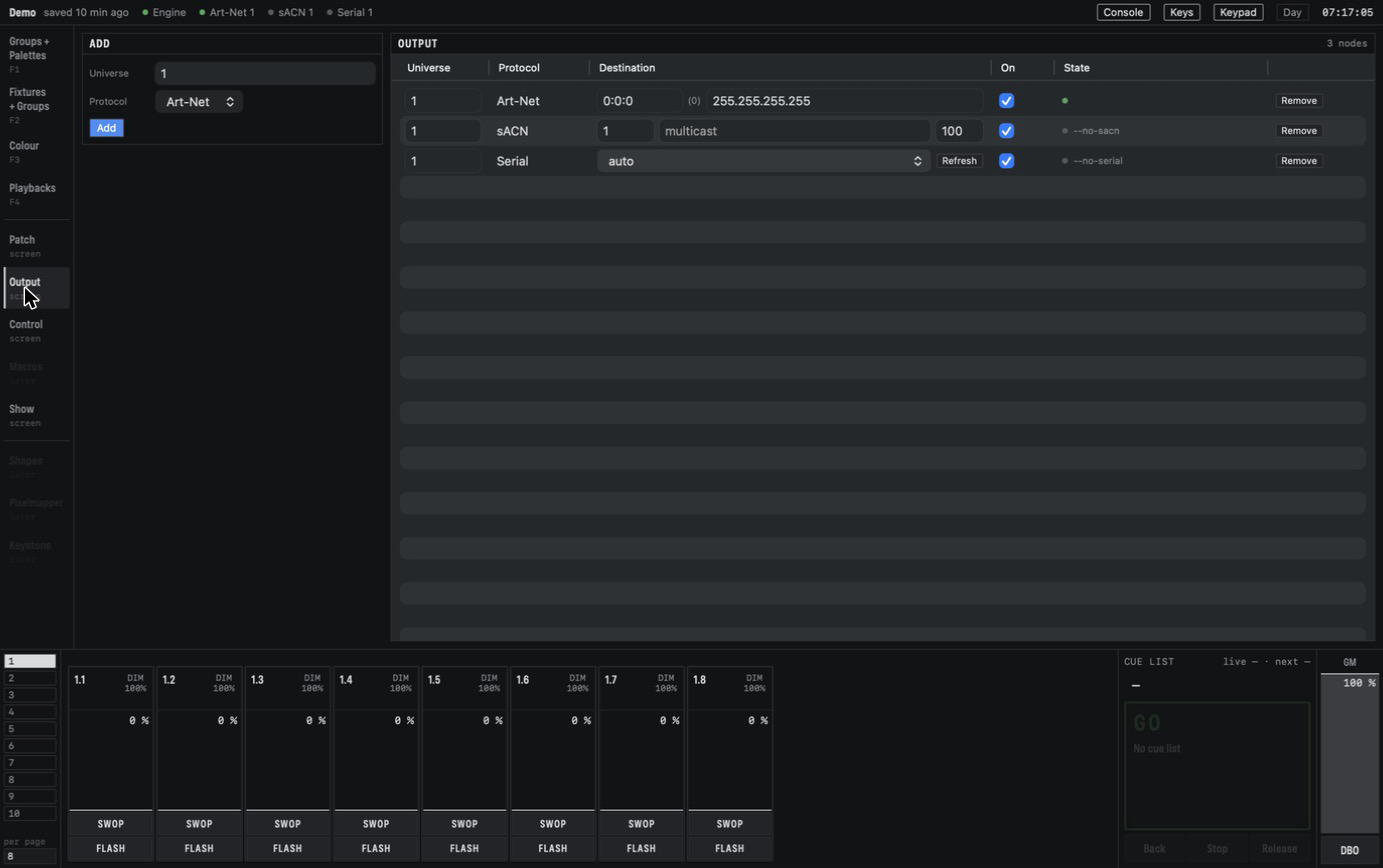
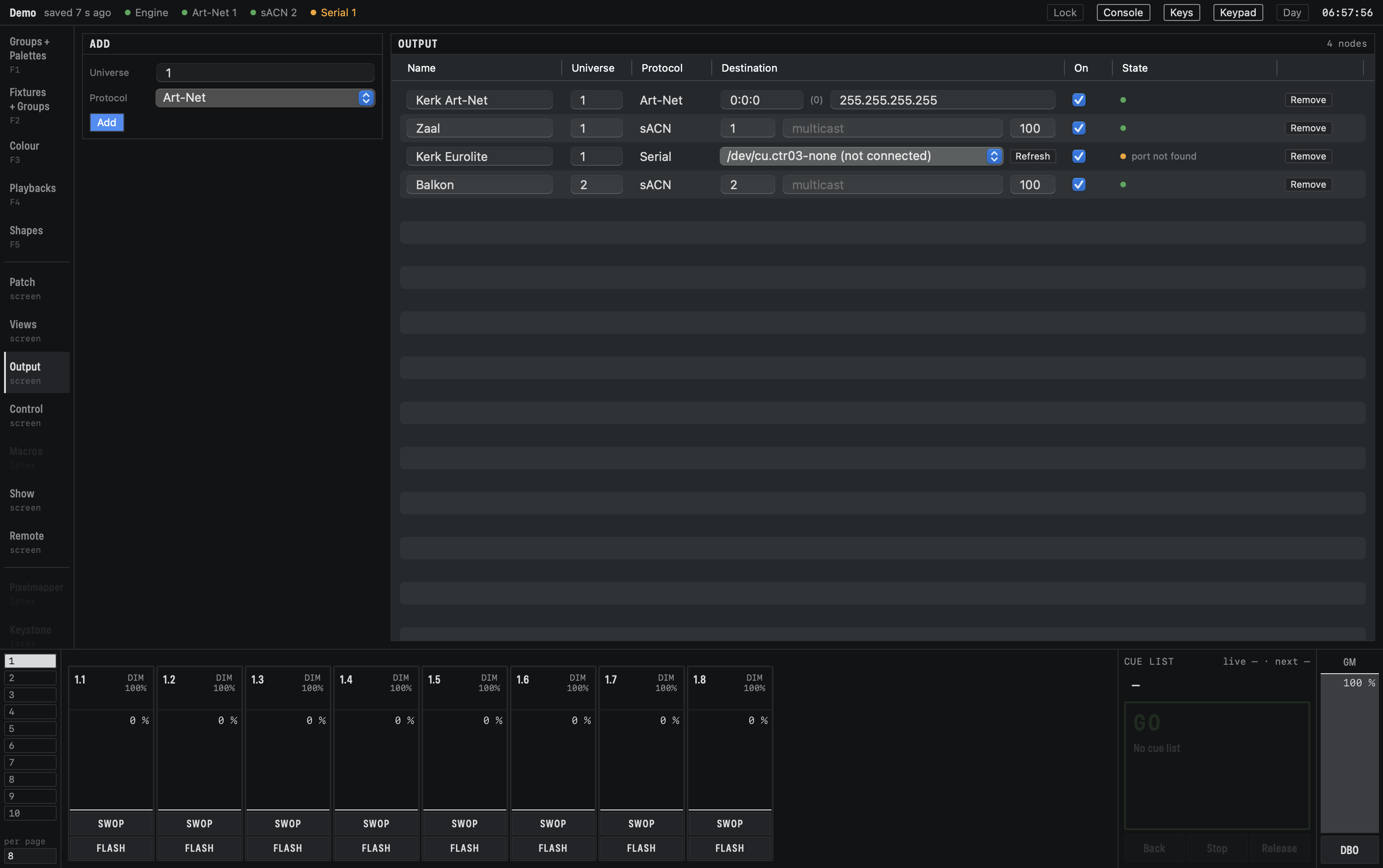
backlog: CTR-03 run and tracking
Run on Art-Net with a release daemon on a temp show folder; manual,
backlog, state files and README status.

diff --git a/tests/manual/runs/2026-11-10-CTR-03.md b/tests/manual/runs/2026-11-10-CTR-03.md
@@ -1,0 +1,46 @@
+# Names for output nodes — CTR-03 (2026-11-10)
+
+OUT-42. Run by Claude with a release daemon on `--show-dir /tmp/cmdmx-ctr03/Shows` and `--ipc-port 7339` (the Demo show,
+Art-Net and sACN on, serial on a port that does not exist), and a release app bundle started with `--ipc-port 7339`.
+State over IPC, Art-Net read with a listener on UDP 6454 (frames per second and ArtDmx sequence gaps per port-address).
+
+## Over IPC and on Art-Net
+- [x] `output.add` sACN on universe 2 with `name` *Balkon*: the outputs list carries `"name": "Balkon"`; the nodes
+  without a name carry no `name` key. Log: `Balkon (sacn #4): universe 2 → sACN 2 multicast, priority 100`.
+- [x] `output.edit` of node 1 to *Kerk Art-Net* while Art-Net runs: the log prints
+  `Kerk Art-Net (art-net #1): universe 1 → 0:0:0 at 255.255.255.255`; port-address 0 kept 40–41 frames a second
+  with no sequence gap over the 8 s around the rename (no new thread).
+- [x] A name of 33 characters: the warning "a node name is at most 32 characters (this one has 33)", node 1 unchanged.
+  32 accented letters (64 bytes) are taken.
+- [x] Node 3 named *Kerk Eurolite* on `/dev/cu.ctr03-none`: the log has `Kerk Eurolite (serial #3): /dev/cu.ctr03-none
+  not found` and the warning `Kerk Eurolite (serial #3) universe 1: Degraded: port not found`.
+- [x] The autosaved `Demo.cmdmx.json` has `schema_version` 14, `name` on the three named nodes and none on node 2.
+- [x] After a daemon restart the start lines name the nodes: `Kerk Art-Net (art-net #1)`, `sacn #2`,
+  `Kerk Eurolite (serial #3)`, `Balkon (sacn #4)`.
+- [x] `show.open` of *Oud*, the same show at schema 13 without names: "migrated 13 -> 14: output nodes may carry a
+  name, nothing else changes", the original kept as `Oud.cmdmx.json.bak`, every node without a name and logged as
+  `art-net #1`, `serial #3`, `sacn #4`.
+
+## The Output screen and the status bar (OUT-37, OUT-36)
+- [x] The Name column is first; *Kerk Art-Net*, *Kerk Eurolite* and *Balkon* show, node 2's field is empty with the
+  placeholder *name*.
+- [x] Typing *Zaal* in node 2's field and Return: the engine lists it (`Zaal (sacn #2)` in the log), the field keeps it.
+- [x] Characters added to *Zaal* up to 37 and Return: "a node name is at most 32 characters (this one has 37)" in the
+  message zone, and the field goes back to *Zaal*.
+- [x] Emptying the field and Return drops the name: the engine lists node 2 without `name`, the log says `sacn #2`.
+- [x] Hovering the Serial dot in the status bar (full-screen control, for a real mouse) shows
+  `Kerk Eurolite (serial #3) universe 1: port not found`.
+- [x] No error in the daemon log (only the known warning about the missing QLC+ folder of a daemon outside the bundle).
+- [x] The manual's `output-screen.png` was taken again with the Name column.
+
+## CPU (UI-70)
+`scripts/app-cpu.sh` on the final build: idle 1.6 % (budget 5 %), `--demo` 2.4 % (budget 15 %).
+
+## Found in the run
+- The first app start ran the daemon that I had copied into the test bundle (REL-10 starts a bundled daemon), on the
+  owner's default folders and port 7319. It was stopped within seconds, and the app with it; the owner's shows were
+  not written (Kerk still dated 2026-10-24) and `state.json` holds the same keys. The daemon is no longer copied into
+  a run's bundle.
+
+## Open points
+- none

diff --git a/subprojects/engine/STATE.md b/subprojects/engine/STATE.md
@@ -1,8 +1,9 @@
 # engine — State
 
-_Last updated: 2026-11-10 (CTR-01, CTR-02)_
+_Last updated: 2026-11-10 (CTR-03)_
 
 ## Current step
+CTR-03 (2026-11-10, OUT-42): `Node.name` (left out of the file and the snapshot when empty), checked in `output::check` (at most 32 `chars()`), so add, edit and load refuse a longer one; `Node::label()` is `serial #3` or `Kerk Eurolite (serial #3)` and is the prefix of every log line and node message. Schema 14, step "13 -> 14". `Engine::output_add_named`; `output_add` passes an empty name. `output.edit` needed no code (JSON merge over the stored node). A rename is not a destination, so the thread stays: `Live.name` (`SharedName`, an `Arc<Mutex<String>>`) is updated by `reconcile` and read by `ArtNetNode`/`SacnNode`/`SerialNode` only when they format a log line. Run: `tests/manual/runs/2026-11-10-CTR-03.md`.
 CTR-01, CTR-02 (2026-11-10, CTL-70, CTL-71): `ControlRequest::MappingDuplicate` clones the `Mapping` (bindings, device, `extra`) under the new name and saves it as a user mapping, a profile too; `MappingDevice` refuses a name in `profiles` and a pattern with a blank `|` alternative. `DeckClear` drops the `Input::Deck` bindings of one `deck_page` with one `save`; MIDI and OSC bindings stay whatever their page, and nothing removed is a refusal. CTL-24's `first_mapping` is unchanged: the shipped Mackie profile still wins for `*BCF2000*` (sorted first). Tests `ctl_70_*` (control/tests.rs), `ctl_71_*` (control/deck_tests.rs). Run: `tests/manual/runs/2026-11-10-CTR-01-02.md`.
 PTC-07 (2026-11-10, PAT-44..47, IPC-62): `Fixture.behaviour` (attribute → `Behaviour`, an entry only when not default) and `Fixture.swap_pan_tilt`, both left out of the file and the snapshot at their defaults; schema 13, step "12 -> 13". `tick` shapes each level with `shaped` right after the merge, for the fixture and cell loops; `held` and Take Over pickups stay unshaped. `Mix` records unshaped levels and `write_mixed` shapes the emitter's total, so a limit holds on auto level plus own value. `outlet` picks the channels for the swap. `Behaviour::apply` uses `max`/`min` because `f32::clamp` panics on a hand-edited `low > high`. `apply_mode` keeps the level attributes the new mode has and clears the swap when Pan or Tilt is gone. `explain` still shows the value before behaviour. Tests: `cmdmx-core/tests/behaviour.rs`, `tests/scenarios/PAT-45-behaviour-on-the-frame.json`.
 PTC-06 (2026-11-09, PAT-43, IPC-62): `Engine::auto_group` runs after a `patch.add` with `auto_groups`, and cannot fail, so an accepted Add stays one undo step; legends are cut to `MAX_LEGEND`. Tests: `cmdmx-core/tests/auto_groups.rs`.

diff --git a/subprojects/app/STATE.md b/subprojects/app/STATE.md
@@ -1,8 +1,9 @@
 # app — State
 
-_Last updated: 2026-11-10 (CTR-01, CTR-02)_
+_Last updated: 2026-11-10 (CTR-03)_
 
 ## Current step
+CTR-03 (2026-11-10, OUT-42): `OutputNode.name` (absent decodes as empty) and `label`, the engine's rule; `OutputView` has a Name column first (`NameCell` on `NodeField`), the status-bar dot's hover lines use `label`. No length check in Swift: the engine refuses and the field snaps back. Run: `tests/manual/runs/2026-11-10-CTR-03.md`.
 CTR-01, CTR-02 (2026-11-10, CTL-69..71): `BindingsPanel.header` has the Device field (`raw["device"]`, Return sends `controlMappingDevice` and shows the stored pattern again until the new one comes back), **Duplicate…** and **Rename…** (`promptName`; `pendingName` selects the new name once the engine lists it, so a refusal keeps the shown one). The control delta asks `control.mapping` again only while the engine lists the shown name (a rename or delete warned "unknown mapping"). `ControlView` holds `armed: DeckArm?` (key, page, copy) for `DeckPanel`; Esc disarms first. While armed a key tap `place`s: copy refuses a bound target, move uses `move(_:to:fromPage:toPage:)` (the drag passes the same page twice). Page buttons have **Clear page…** (`controlDeckClear`), and Remove asks with an NSAlert (a state flip does not survive a context menu).
 PTC-08 (2026-11-10, UI-76): `FixtureInfo.behaviour` and `swapPanTilt`, `FixtureBehaviour`; `EngineClient.patchBehaviour`, `patchBehaviourReset`, `patchSwapPanTilt`. `SelectedPanel` has **Behaviour…**, a `BehaviourSheet` over the attributes every selected row has, with a `PercentField` that commits on Return and on leaving the field; Done is no default button, so Return only commits. The Mode column shows `INV` and `LIM`. Run: `tests/manual/runs/2026-11-10-PTC-07-08.md`.
 PTC-05, PTC-06 (2026-11-09, UI-75 profile part, UI-74 toggle): `SelectedPanel` has **Update from library** on its own row, off unless `sharedProfile`. `AddPanel` has **Duplicate…** (an alert; `duplicateAs` waits for `library.saved` and picks the copy), **Delete profile** (two-step, user rows only; `EngineClient.profileDeleted` refreshes the lists) and the **Auto groups** toggle (`@AppStorage("patchAutoGroups")`). Run: `tests/manual/runs/2026-11-09-PTC-05-06.md`.

diff --git a/README.md b/README.md
@@ -42,7 +42,7 @@ driven the real church rig through the Eurolite interface: fades comparable with
 restart, and killing the app with `kill -9` mid-show dropped no DMX frame.
 
 Patch and profiles are complete: exchange, copy, update from the library, and behaviour per fixture at the output.
-Next: batch F's builds (CTR-03, CTR-04), the church Mac (VS4-07), then a first service on CMDMX (VS4-03).
+Next: batch F's builds (CTR-04, CTR-06), the church Mac (VS4-07), then a first service on CMDMX (VS4-03).
 Phase 2 features already work; the open-hardware desk ([`hardware.md`](specs/modules/hardware.md)) runs beside it.
 Progress is in [`STATE.md`](STATE.md), the plan in [`BACKLOG.md`](BACKLOG.md);
 site and manual are at [aottens.github.io/CMDMX](https://aottens.github.io/CMDMX/).
@@ -52,8 +52,8 @@ site and manual are at [aottens.github.io/CMDMX](https://aottens.github.io/CMDMX
 **Output**
 - The engine runs at 40 Hz and sends every patched universe over Art-Net, sACN and USB (ENTTEC
   Pro protocol). A universe gets Art-Net and sACN by itself when its first fixture is patched;
-  outputs are part of the show and can be added, changed and removed on the Output screen
-  without the others dropping a frame.
+  outputs are part of the show and can be added, changed, named and removed on the Output screen
+  without the others dropping a frame. A named node reads `Kerk Eurolite (serial #3)` in messages and logs.
 - The Eurolite USB-DMX512 PRO MK2 drives real dimmers and LED pars (250000 baud, about 33 Hz).
   The port chosen on the Output screen survives a restart; unplugging and replugging needs no
   restart. `--no-artnet`, `--no-sacn` and `--no-serial` silence a protocol for one run.

diff --git a/BACKLOG.md b/BACKLOG.md
@@ -287,7 +287,7 @@ Builds: CTR-01 + CTR-02; CTR-03; CTR-04 + CTR-05 + CTR-07; CTR-06 + CTR-08 + CTR
 |---|---|---|---|---|
 | CTR-01 | Daemon and app: rename, duplicate and change the device pattern of a mapping on the Control screen; `ctl_70_…`; manual and run. | CTL-69, CTL-70 | S | done (2026-11-10, #291; run `tests/manual/runs/2026-11-10-CTR-01-02.md`) |
 | CTR-02 | Daemon and app: copy, move and clear deck keys and a two-step Remove; `ctl_71_…`; manual and run with the Stream Deck. | CTL-71 | S | done (2026-11-10, #291; run `tests/manual/runs/2026-11-10-CTR-01-02.md`) |
-| CTR-03 | Core, daemon and app: a name for an output node, schema 14, in the log lines and the status bar; `out_42_…`; manual and run on Art-Net. | OUT-42 | M | todo |
+| CTR-03 | Core, daemon and app: a name for an output node, schema 14, in the log lines and the status bar; `out_42_…`; manual and run on Art-Net. | OUT-42 | M | done (2026-11-10, #292; run `tests/manual/runs/2026-11-10-CTR-03.md`) |
 | CTR-04 | App: Move a fixture's button in the Fixtures window; manual and run, which also checks IDEA-38 with an accessibility click. | UI-77 | S | todo |
 | CTR-05 | App: the keypad below 1440 pt, and the manual's Command-1 to 5 and `faders_per_page` lines; run at 1280 pt. | UI-78 | S | todo |
 | CTR-06 | Core and app: `@ +n` and `@ -n`, and the wheel's travel; `prg_100_…`; manual and run on Art-Net. | PRG-100, PRG-101 | S | todo |

diff --git a/STATE.md b/STATE.md
@@ -11,7 +11,7 @@ fails CI when this file drifts from `BACKLOG.md` (`specs/modules/tracking.md`).
 - Phase 10, the open-hardware desk (IDEA-23), runs beside phase 1 in its own PRs; HWB-01's parts are ordered.
 
 ## Next
-1. IDEA-35 batch F, controls and small things (spec approved): builds CTR-03,
+1. IDEA-35 batch F, controls and small things (spec approved): builds
    CTR-04 + CTR-05 + CTR-07, CTR-06 + CTR-08 + CTR-09. Then batches G, I and J in the owner's order
    (`docs/research/everyday-gaps.md`), each spec approved first. P1-31 (Blind and Edit) stays apart from them.
 2. The other proposals of the third gap review wait for approval (same file, *Proposed changes to the batches*).

diff --git a/subprojects/website/manual/src/patching.md b/subprojects/website/manual/src/patching.md
@@ -271,7 +271,7 @@ and the message line says so. Click **Output** in the rail to see and edit the n
 
 ![The Output screen with one row per output node](images/output-screen.png)
 
-*The Output screen: one row per node, with its universe, protocol, settings and state.*
+*The Output screen: one row per node, with its name, universe, protocol, settings and state.*
 
 - Each row has an **On** tick and a coloured dot for its state. Untick a node to stop it
   without removing it.
